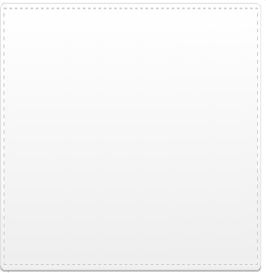
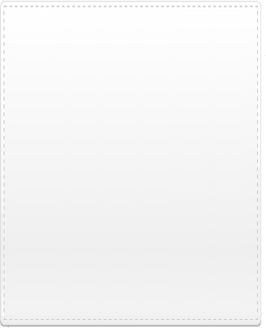
Change thumbnails and portlets sizes to match heb picture ratio

Changed region(s): [[0.0, 0.0, 0.9624, 0.0586], [0.9624, 0.5861, 0.9925, 0.6154], [0.9624, 0.0293, 0.9925, 0.0586]]

diff --git a/gites/theme/static/css/style.css b/gites/theme/static/css/style.css
@@ -156,6 +156,7 @@ margin-bottom:0px;
 background-color: #E7E9E8;
 }
 
+
 /*** INTERFACE ***/
 #wrapper{
 width:1100px;
@@ -602,7 +603,7 @@ border-right:none;
 /*** OFFRES PACKAGES ***/
 div#zone-offres{
 position:relative;
-height:352px;
+height:405px;
 background:url(../images/bgblancligne.png);
 background-position:0px 53px;
 box-shadow:0px 5px 8px #000;
@@ -642,7 +643,7 @@ div#zone-offres div#zone-allo-chambre-hote,
 div#zone-offres div#zone-la-boutique{
 float:left;
 width:233px;
-height:241px;
+height:295px;
 background-color:transparent;
 background:url(../images/bg-etiquette.png);
 background-position:2px -5px;
@@ -656,10 +657,11 @@ font-size:0.8em;
 }
 
 div#zone-offres .offre-icon {
-height: 115px;
-width: 246px;
+height: 156px;
+width: 240px;
 box-shadow: 2px 2px 4px rgba(50, 50, 50, 0.5);
-left: -6px;
+left: -3px;
+margin-top: 3px;
 margin-bottom: 6px;
 position: relative;
 }
